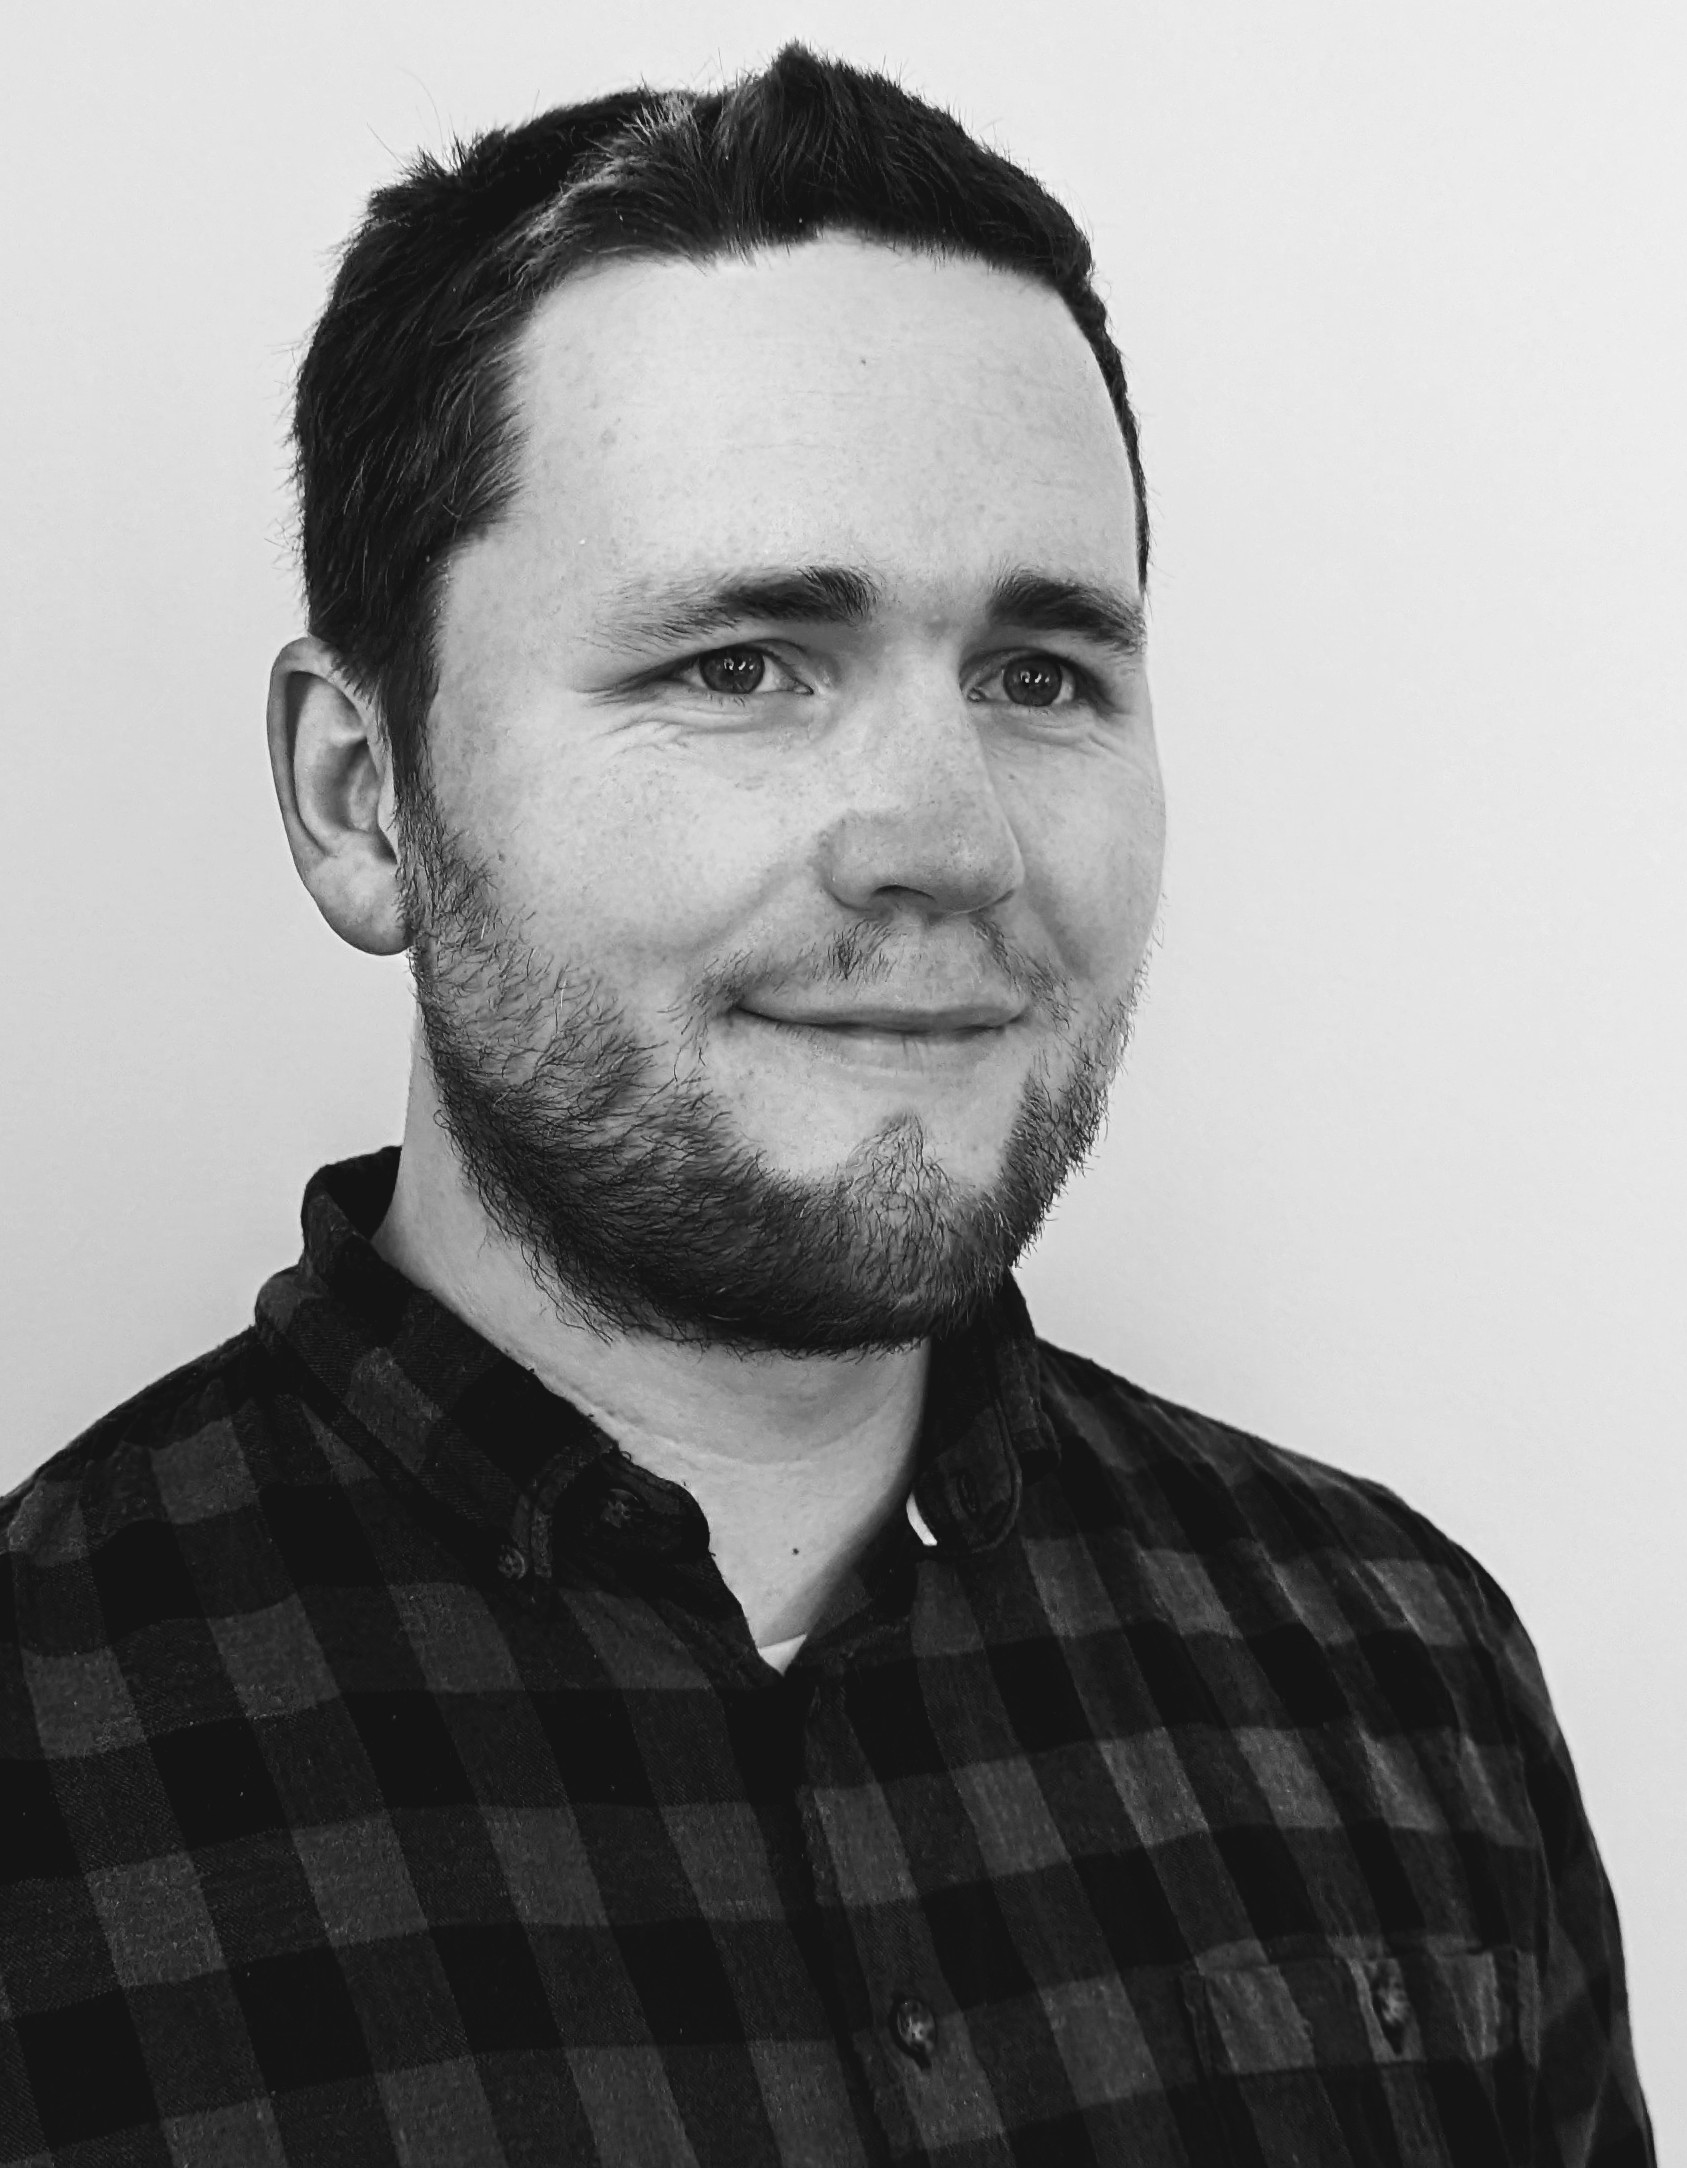
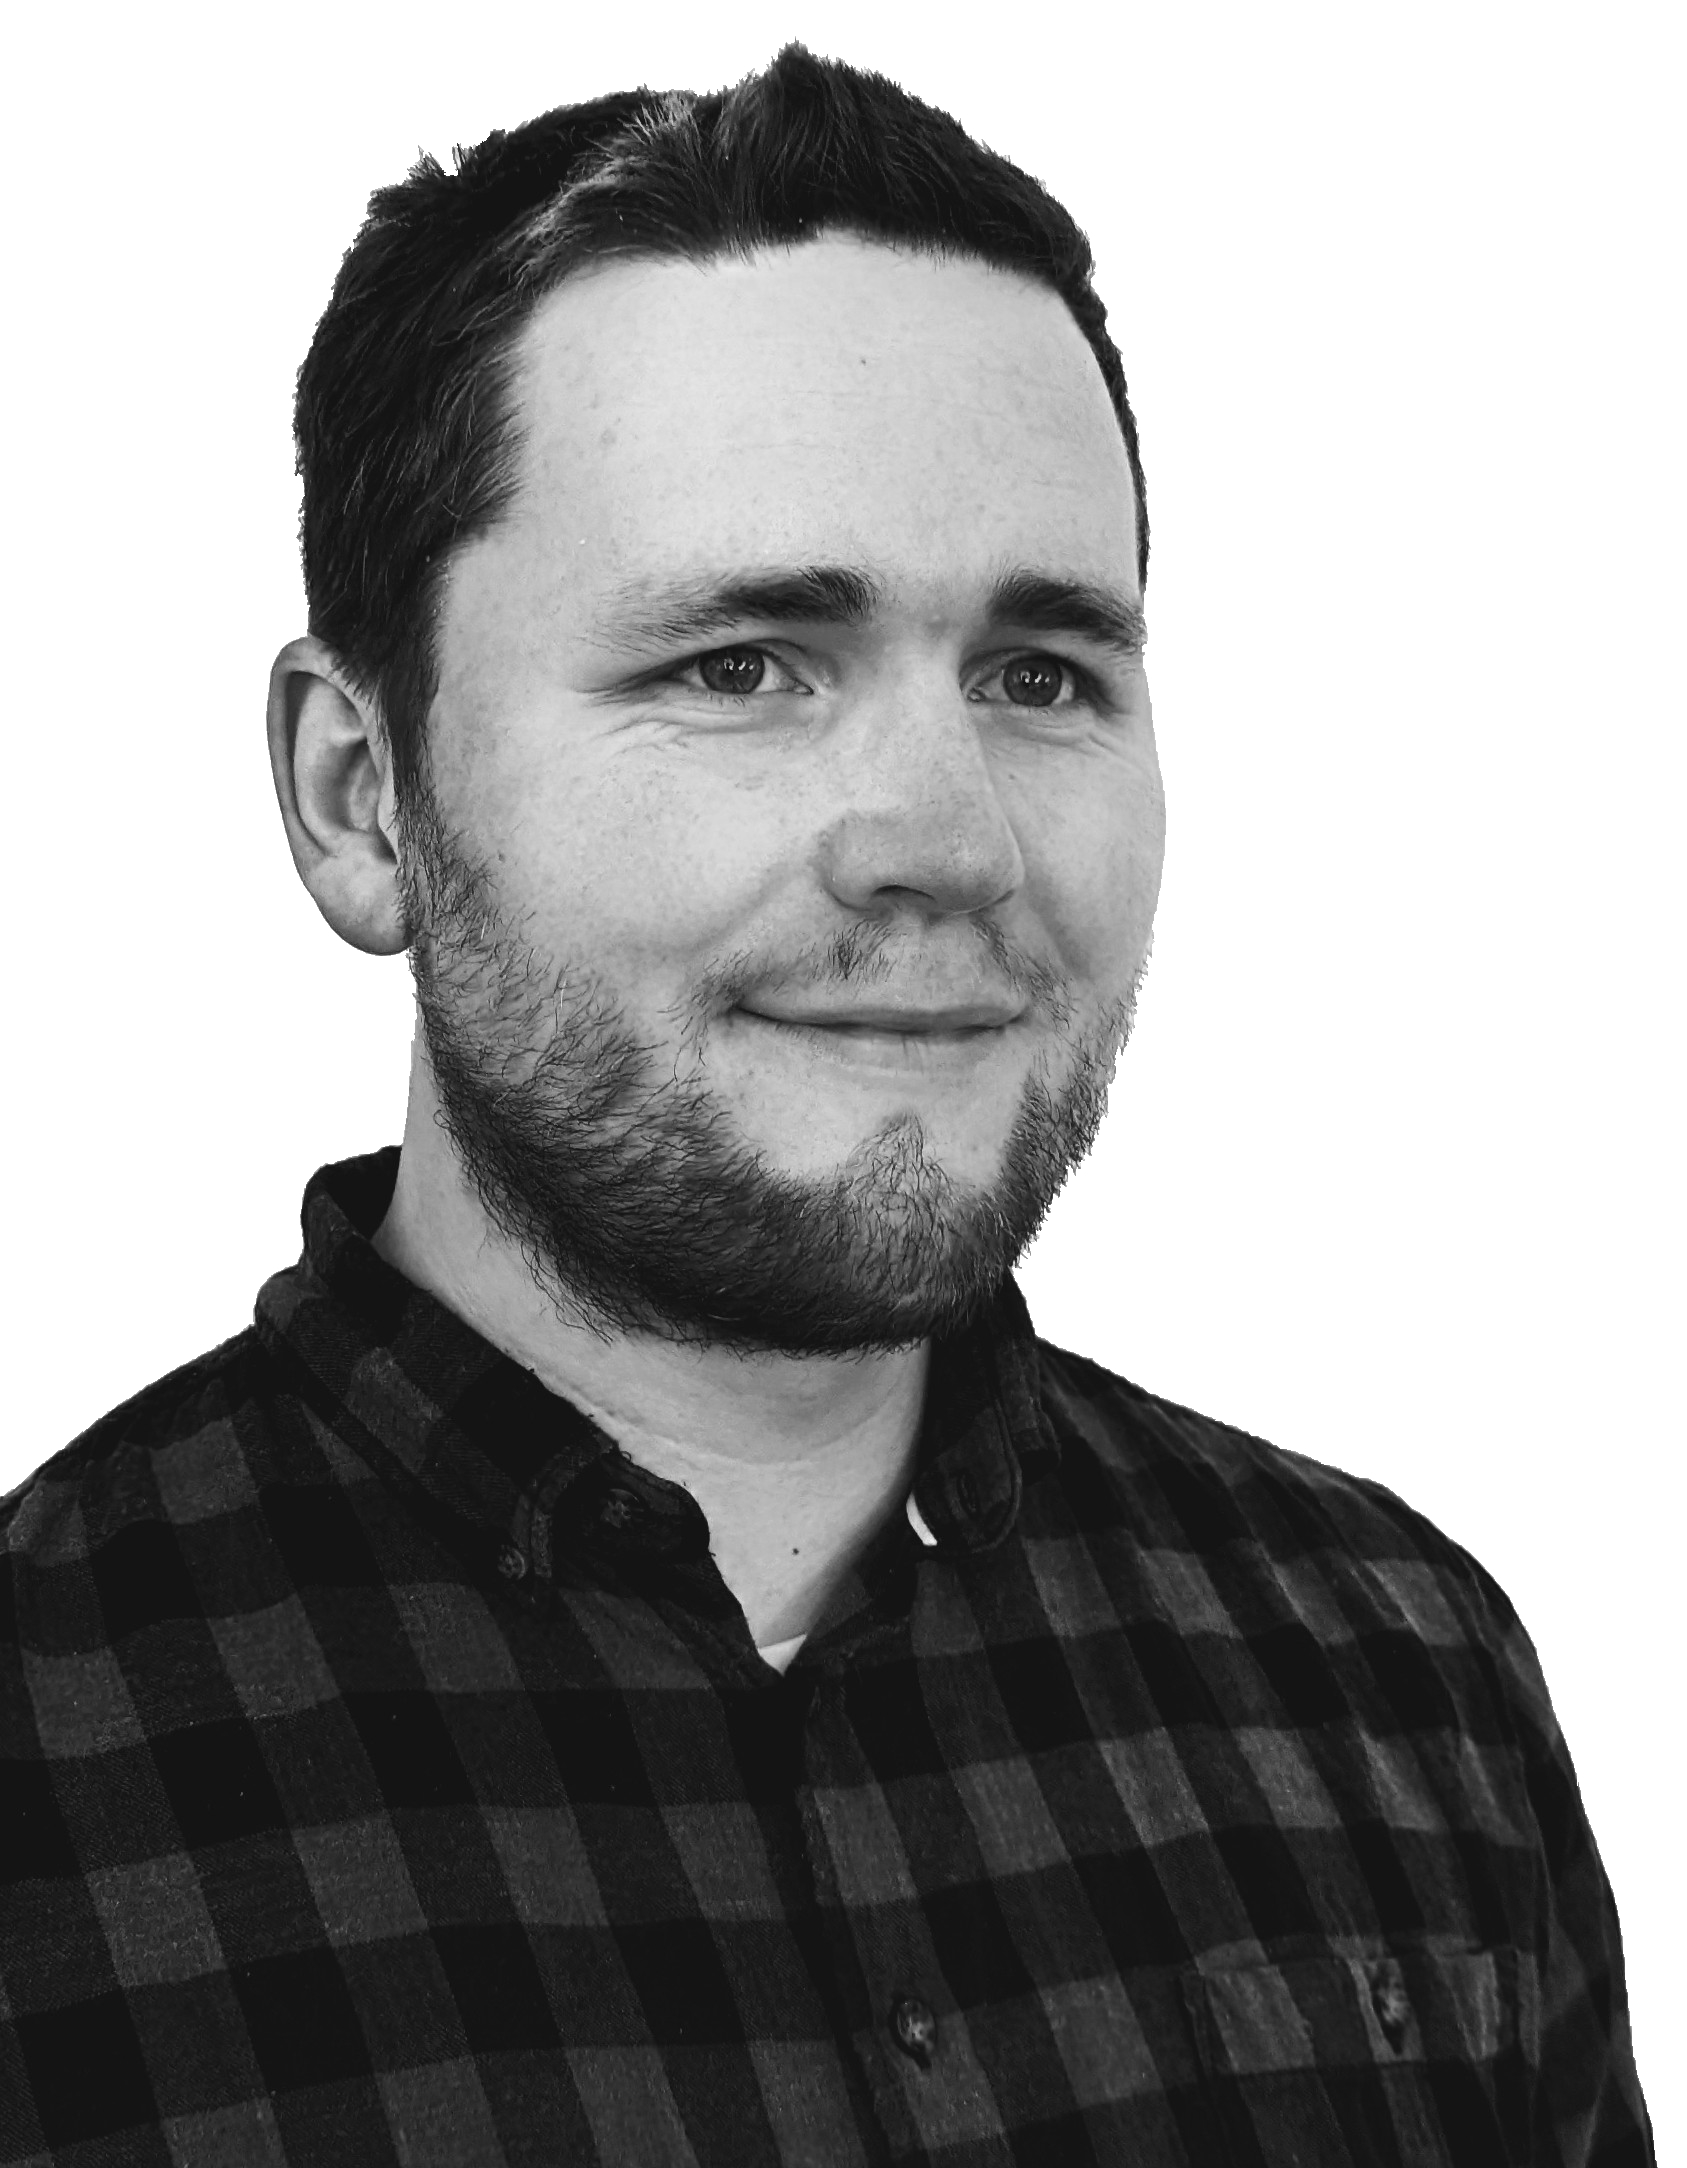
Added new project pictures

Changed region(s): [[0.5857, 0.1236, 1.0, 1.0], [0.0, 0.0, 0.4932, 0.7108], [0.524, 0.0309, 0.6165, 0.0927]]

diff --git a/src/components/cards/newCard.js b/src/components/cards/newCard.js
@@ -17,6 +17,8 @@ function NewsCard() {
       <TextContainer>
         <ProjectTitle>Dølingen</ProjectTitle>
         <ProjectText>
+          Fiktiv avis jeg lagde.
+          <br />
           Første forsøk på Html og CSS. <br />
           Her har jeg bare prøvd meg <br />
           fram i HTML og CSS.

diff --git a/src/components/aboutMe.js b/src/components/aboutMe.js
@@ -5,7 +5,7 @@ import {
   TextFlex,
 } from "./styles/aboutMeStyle";
 import { ImageStyle } from "./styles/aboutMeStyle";
-import profile from "./img/profile.jpg";
+import profile from "./img/profile.png";
 
 function AboutMe() {
   return (
